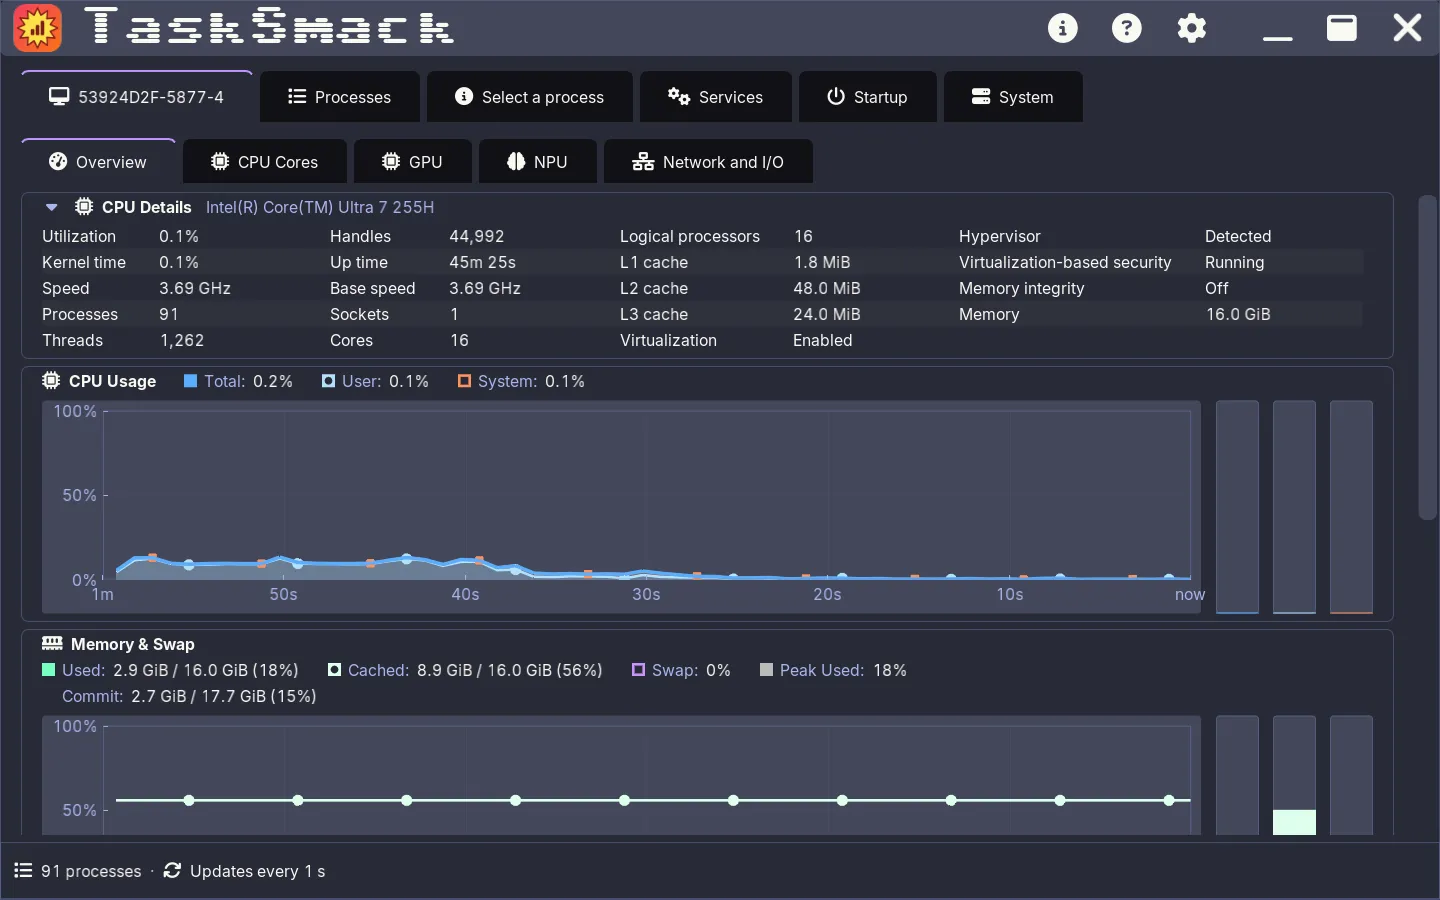
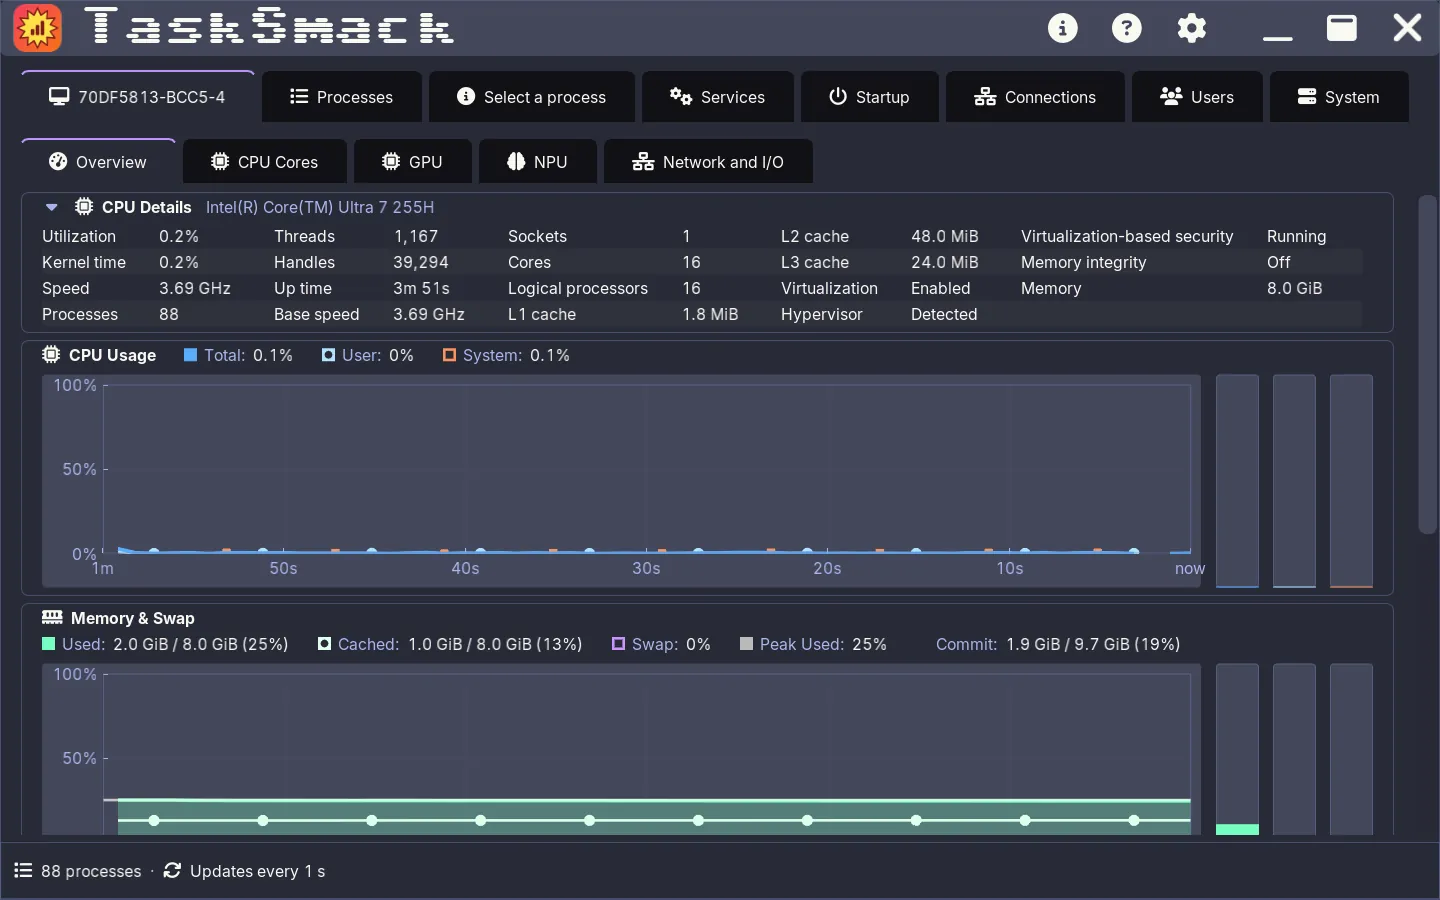
docs(screenshots): v0.10.0 Windows set from a Windows Sandbox, signed build (#2827)
Regenerate docs/images/screenshots/windows/ for v0.10.0 inside a Windows
Sandbox (vGPU, no Mesa) from the Authenticode-signed 0.10.0 release dry-run
build: 30 WebPs, the 23 existing names refreshed plus cores, gpu, network,
settings, users and the Processes table grouped by unit and by user.

tools/screenshots.ps1 gains the grouped (#3068) and Users shots, a taller
window for the Process Details section stills (the Overview's cards now push
them below a 900 px fold), -ConnectionsPid for a process that holds sockets,
and a BOM-free config.toml (the Sandbox has only Windows PowerShell 5.1).
The user guide shows the new grouped, Users and Settings images and the
Windows Connections section, with updated Startup and Process Details
captions; CONTRIBUTING describes the signed-build Sandbox route.

Refs #2827

diff --git a/docs/guide/user-guide.md b/docs/guide/user-guide.md
@@ -238,6 +238,10 @@ A cell reading **-** is a value of 0 (or one that doesn't apply). A cell reading
 
 **Group** (beside **Columns**) gathers the processes under group rows: **Unit** (the systemd unit each process's cgroup names on Linux, or the first service it hosts on Windows), **Container**, **App** (the desktop app, Flatpak or Snap a process was launched as, from its systemd scope or service: `app-gnome-firefox-4521.scope` is `firefox`), or **User** (the account each process runs as, so each user's group row totals that user's CPU, memory, disk and network use). Each group row shows its name and process count, and in the columns that add up (CPU %, Memory %, memory, Private, Swap, threads, handles, CPU time, disk and network rates, power, GPU and NPU) its totals, marked **Σ** so a total never reads as one process's figure. Click a group row to collapse or expand it. Groups are sorted by their totals in the sorted column (by name, A to Z, between equal totals), the processes inside each group by the column too, and processes in no group come last under **Ungrouped**. Grouping is a mode of the List view: choosing a group switches Tree off, and choosing Tree sets the group back to **None**. The choice is saved in `config.toml` (`[process_table] group_by`).
 
+![The Processes tab grouped by Unit on Windows: group rows named after services (AppIDSvc, Appinfo, AppXSvc, BFE and more), each with its process count and Σ totals for CPU %, Mem % and Memory, above the svchost.exe that hosts it, with the Services column shown](../images/screenshots/windows/processes-grouped-unit-windows-dark.webp)
+
+*The Processes table grouped by **Unit** on Windows: each service host under the first service it runs, with the group's Σ totals.*
+
 **Run new task** (the rocket button beside **Columns**) starts a program, as Task Manager's File > Run new task does. It is how you get a terminal or your desktop shell back when the shell has hung. Type the program and its arguments, pick one of the last ten you ran from the arrow beside the box, or choose a file with **Browse...**, then press **Run** or Enter. No shell runs the command: words are split as a shell splits them, and quotes keep spaces in a word, but `$VARIABLES`, `~` and wildcards are passed on as typed. A program TaskSmack can't find on your `PATH` is reported straight away. On Linux, **Run as administrator** starts it through `pkexec`, which asks for an administrator's password. Most programs with windows won't open that way, because `pkexec` doesn't pass on your display. When TaskSmack itself runs as root through `sudo` or `pkexec`, a program run without that tick starts as you, in your session. The recent commands are saved in `config.toml` (`[run_task] recent`).
 
 **Find handles** (Linux for now: the magnifier button beside the rocket, or **Ctrl+Shift+F** over the process table) answers "which process is holding this file?". Type part of a file, folder or library name or path and press **Find** or Enter: TaskSmack searches every process's open files and loaded libraries in the background and lists each process, its PID, what it holds (File, Folder, Library, Socket, Pipe, Device) and the path, sortable by any column. Matching ignores the case of ASCII letters. The line under the list counts the processes searched and the matches found, and how many processes couldn't be read. Those are other users' processes, which only an administrator can read: with the `.deb` (or an `.rpm` built from source), **Authenticate to search them too** asks for an administrator's password once and searches just those. Click a result to select its process; double-click to open it in Process Details. A search stops at 10,000 matches. **Stop** ends one early, and closing the dialog leaves it running, so its results are there when you open the dialog again.
@@ -454,9 +458,9 @@ The Process Details **Overview** tab has a collapsible **Environment** section, 
 
 ### Connections
 
-![Process Details' Overview with the Connections section expanded below the Actions and Priority cards, reading No TCP or UDP sockets for the selected process](../images/screenshots/linux/details-connections-windows-dark.webp)
+![Process Details' Overview with the Connections section expanded below the Actions and Priority cards: 3 connections, a table of PROTO, LOCAL ADDRESS, REMOTE ADDRESS and STATE with three TCP connections to port 443](../images/screenshots/windows/details-connections-windows-dark.webp)
 
-*The **Connections** section opened under the Actions and Priority cards, here for a process that holds no TCP or UDP sockets.*
+*The **Connections** section opened under the Actions and Priority cards, for a process holding three TCP connections.*
 
 The Process Details **Overview** tab also has a collapsible **Connections** section, closed by default, under the Environment section. Open it to list the selected process's TCP and UDP sockets, netstat-style, in a **PROTO / LOCAL ADDRESS / REMOTE ADDRESS / STATE** table with a count above it ("3 connections"):
 
@@ -577,9 +581,9 @@ The **Services** tab lists the system's services (Windows' Service Control Manag
 
 ### Startup
 
-![The Startup tab: a filter box, the startup apps count, the Enable and Disable buttons, and an empty table with Name, Publisher, Enabled, Scope, Location and Command columns](../images/screenshots/windows/startup-windows-dark.webp)
+![The Startup tab: a filter box, the count 3 of 3 startup apps, the Enable and Disable buttons, and a table of Task Manager, Windows Calculator and Windows Security notification icon with their Publisher, Enabled, Startup impact, Scope, Location and Command columns](../images/screenshots/windows/startup-windows-dark.webp)
 
-*The **Startup** tab's filter box, count, **Enable** and **Disable** buttons and columns, on a machine with no startup apps to list.*
+*The **Startup** tab with two current-user Run entries and one all-users entry, each with its **Startup impact** (Not measured here: the machine had no recorded sign-in to rate them from).*
 
 The **Startup** tab lists the programs Windows (or, on Linux, your desktop session) starts when you sign in, and enables or disables them:
 
@@ -620,6 +624,10 @@ The **Connections** tab, between Startup and Users, lists every TCP and UDP sock
 - On Windows the tab says it isn't available yet.
 
 ### Users tab
+
+![The Users tab: one signed-in user, WDAGUtilityAccount (you), with 1 session, 22 processes and its Σ CPU, Σ Memory, Σ Disk and Σ Network, expanded to its session and then its processes](../images/screenshots/windows/users-windows-dark.webp)
+
+*The **Users** tab with its one user expanded: the session, then the user's processes.*
 
 The **Users** tab, between Connections and System, has a row for each signed-in user, as Windows Task Manager's Users tab does: their sessions and the **Σ CPU**, **Σ Memory**, **Σ Disk** (read plus write) and **Σ Network** (sent plus received) of every process running as them, with the process count. The Σ marks a total, never one process's figure. Your own row says **(you)**.
 
@@ -720,7 +728,7 @@ On Windows, **Suspend** stops every thread of the process at once, as Resource M
 
 In Process Details the Overview's Identity, Runtime and Actions sections are bordered cards, each with its title inside, drawn like the cells of the CPU Cores grid. The Actions card sits beside the Identity and Runtime cards, no taller than they are, so the charts keep their height: a row with the Terminate, Kill, Suspend and Resume buttons (on Linux followed by **Trace system calls (strace)**, which takes a row of its own when there is no room for it after them), then **Priority**, the priority slider under it and **Apply** under the slider (on Linux, then **I/O priority**, with its current setting after its **Apply**). The process's current priority is the Runtime card's **Priority** row and the **Priority** label's tooltip, not repeated in the Actions card. A result or error message appears under the last row. When the window is too narrow for three cards side by side, or the card needs more height than Identity and Runtime have (as the priority slider usually does), the Actions card moves onto its own row under them, at its full height. **F9** brings the Overview tab forward to show its Kill confirmation.
 
-![Process Details' Overview sub-tab: the command line and Recent crashes line, the Identity and Runtime cards, the Actions card with Terminate, Kill, Suspend, Resume, Set affinity and Create dump file, the Priority card with its slider and Apply button, and the collapsed Connections, Modules, Security and Open files sections](../images/screenshots/windows/details-overview-windows-dark.webp)
+![Process Details' Overview sub-tab: the command line and Recent crashes line, the Identity and Runtime cards, the Actions card with Terminate, Kill, Suspend, Resume, Set affinity, Create dump file, Analyze wait chain and the Efficiency mode checkbox, the Priority card with its slider and Apply button, and the collapsed Environment, Connections, Modules and Threads sections](../images/screenshots/windows/details-overview-windows-dark.webp)
 
 *Process Details' **Overview**: the command line and **Recent crashes** line, the Identity and Runtime cards, the Actions card and the Priority slider, and the collapsible sections below them.*
 
@@ -893,6 +901,10 @@ TaskSmack reopens at the size and position it had when it was closed, and maximi
 If the saved position is no longer on any connected display (a monitor was unplugged, say), TaskSmack opens centered on the primary display instead, and a saved size larger than the display is shrunk to fit it.
 
 ### Settings dialog
+
+![The Settings dialog over the machine tab: Appearance (Theme, Font size, Show process icons, Highlight new and exited processes), Performance (Update interval, History length, Count UDP traffic per process) and Task Manager (Replace Task Manager) sections, with Reset to defaults, Cancel and Save buttons](../images/screenshots/windows/settings-windows-dark.webp)
+
+*The **Settings** dialog on Windows.*
 
 The Settings dialog (the gear icon, or **F2**) has three sections, and a fourth on Windows:
 

diff --git a/CONTRIBUTING.md b/CONTRIBUTING.md
@@ -860,12 +860,14 @@ column off, since command lines name the machine's users and paths), the startup
 section that pick the view, and `TASKSMACK_SCREENSHOT`, which writes the frame in-app and quits. The
 matrix is Overview in six themes (`windows-dark`, `ubuntu-light`, `dracula`, `nord-light`, `gruvbox`,
 `monochrome-light`), Processes and System Information in the first dark and the first light theme,
-the machine tab's CPU Cores, GPU and Network and I/O sub-tabs (`cores`, `gpu`, `network`, selected by
+the Processes table grouped by service and by user (`processes-grouped-unit`, `processes-grouped-user`,
+#3068; on Windows the unit shot shows the Services column, which is what has TaskSmack read the
+service list Unit groups by; Windows only so far), the machine tab's CPU Cores, GPU and Network and I/O sub-tabs (`cores`, `gpu`, `network`, selected by
 `TASKSMACK_MACHINE_TAB`, #2869), Process Details (overview, GPU, network, and the Overview with its
 Modules, Open files and Connections sections expanded by a one-step `TASKSMACK_DEMO` script:
 `details-modules`, `details-openfiles`, `details-connections`, and on Linux, the only platform that
 reads them, Environment and Security too: `details-environment`, `details-security`) for one process,
-Services, Startup, Settings (`TASKSMACK_OPEN=settings`), About and Help, named `<view>-<theme>.webp`,
+Services, Startup, Users (Windows only so far), Settings (`TASKSMACK_OPEN=settings`), About and Help, named `<view>-<theme>.webp`,
 plus three animated WebPs at 12 fps built from frame sequences:
 `overview-live.webp` (8 s of the Overview), `walk-live.webp` (10 s: `TASKSMACK_DEMO` opens the
 Processes table, selects the process and brings up its Process Details' Network tab) and
@@ -873,8 +875,9 @@ Processes table, selects the process and brings up its Process Details' Network 
 `themes-live` get `[sampling] history_max_seconds = 60` and are captured after 60 s (the hook's
 maximum), so their history charts are full; the other views are captured after 8 s (the GPU and
 network charts need a few samples). The expanded-section shots get their own window size,
-`--section-window` / `-SectionWindow`: 1440x1200 on Linux, where the taller Actions and Priority cards
-push every section below a 900 px fold, and `-Window`'s 1440x900 on Windows.
+`--section-window` / `-SectionWindow`, 1440x1200, since the Actions and Priority cards push every
+section below a 900 px fold; on Windows Open files, the last section, gets `-OpenFilesWindow`'s
+1440x1400, and `-ConnectionsPid` picks a process that holds sockets for `details-connections`.
 `--webp` / `-WebP` converts with `cwebp -q 80` and `img2webp` from libwebp (`sudo apt install
 webp`; Windows: `winget install Google.Libwebp`); without it the PNGs are copied and the frames left
 in the work directory instead. Both scripts print a table of exit code, seconds and bytes per shot
@@ -899,10 +902,14 @@ line is shown in Process Details, so run the binary from a path that names no us
 build's `bin/` at `/srv/tasksmack` inside the namespace, `--exe /srv/tasksmack/TaskSmack --process TaskSmack`).
 
 ```powershell
-# Windows: in a Windows Sandbox (its own processes, user and host name) with a win-release build made
-# inside it (App Control there refuses a binary built on the host), and Mesa's llvmpipe opengl32.dll
-# beside TaskSmack.exe when the Sandbox has no vGPU
-.\tools\screenshots.ps1 -Exe build\win-release\bin\TaskSmack.exe -Out C:\shots\out   # then cwebp/img2webp on the host
+# Windows: in a Windows Sandbox (its own processes, user and host name, WDAGUtilityAccount) with
+# <vGPU>Enable</vGPU> and the release's Authenticode-signed zip mapped in read-only: Smart App Control
+# inside the Sandbox refuses an unsigned TaskSmack.exe, whether built on the host or in the Sandbox.
+# Seed a few HKCU/HKLM Run entries (the Sandbox has no startup apps), start a process that holds a few
+# TCP connections for -ConnectionsPid, and park the Sandbox's pointer in a screen corner
+# (SetCursorPos(0, 0) inside the Sandbox, before each shot), or the host pointer over the Sandbox window
+# hovers a chart and draws its tooltip into the shot.
+.\tools\screenshots.ps1 -Exe C:\shots\TaskSmack.exe -Out C:\shots\out -ConnectionsPid $holder.Id   # then cwebp/img2webp on the host
 ```
 
 The images show the machine they were taken on. Before committing, look at every one for a user name,
